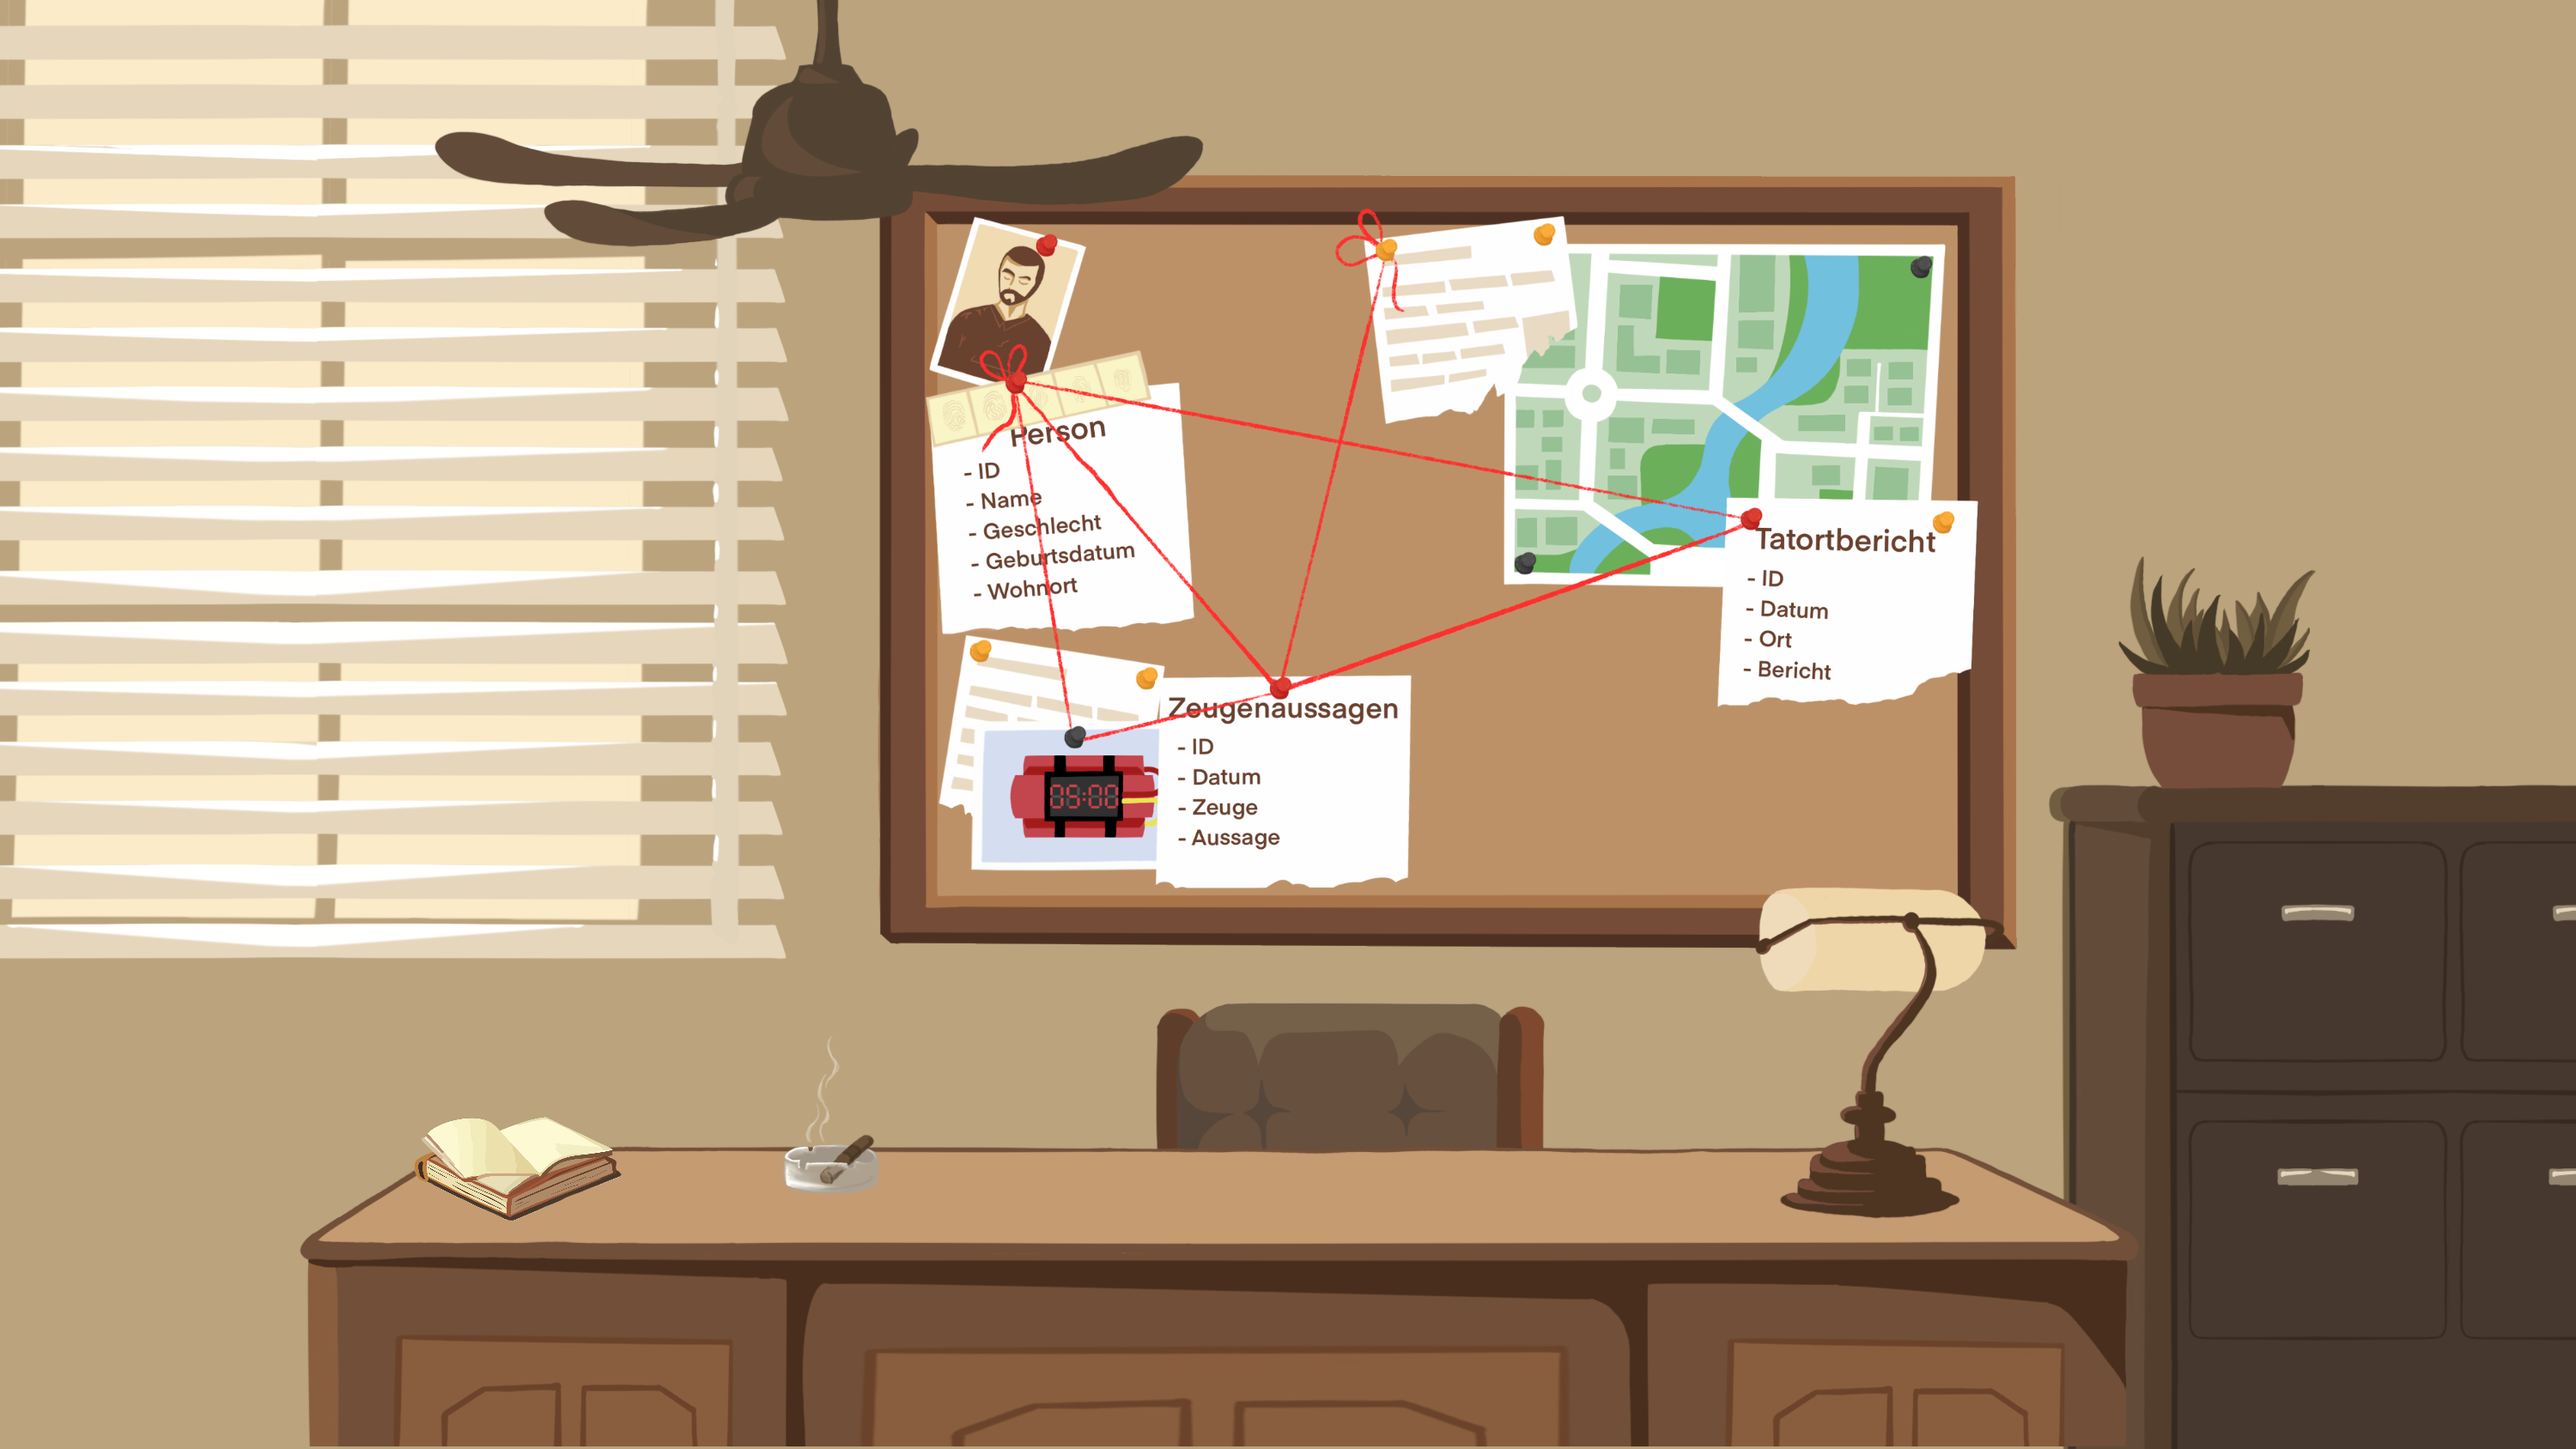
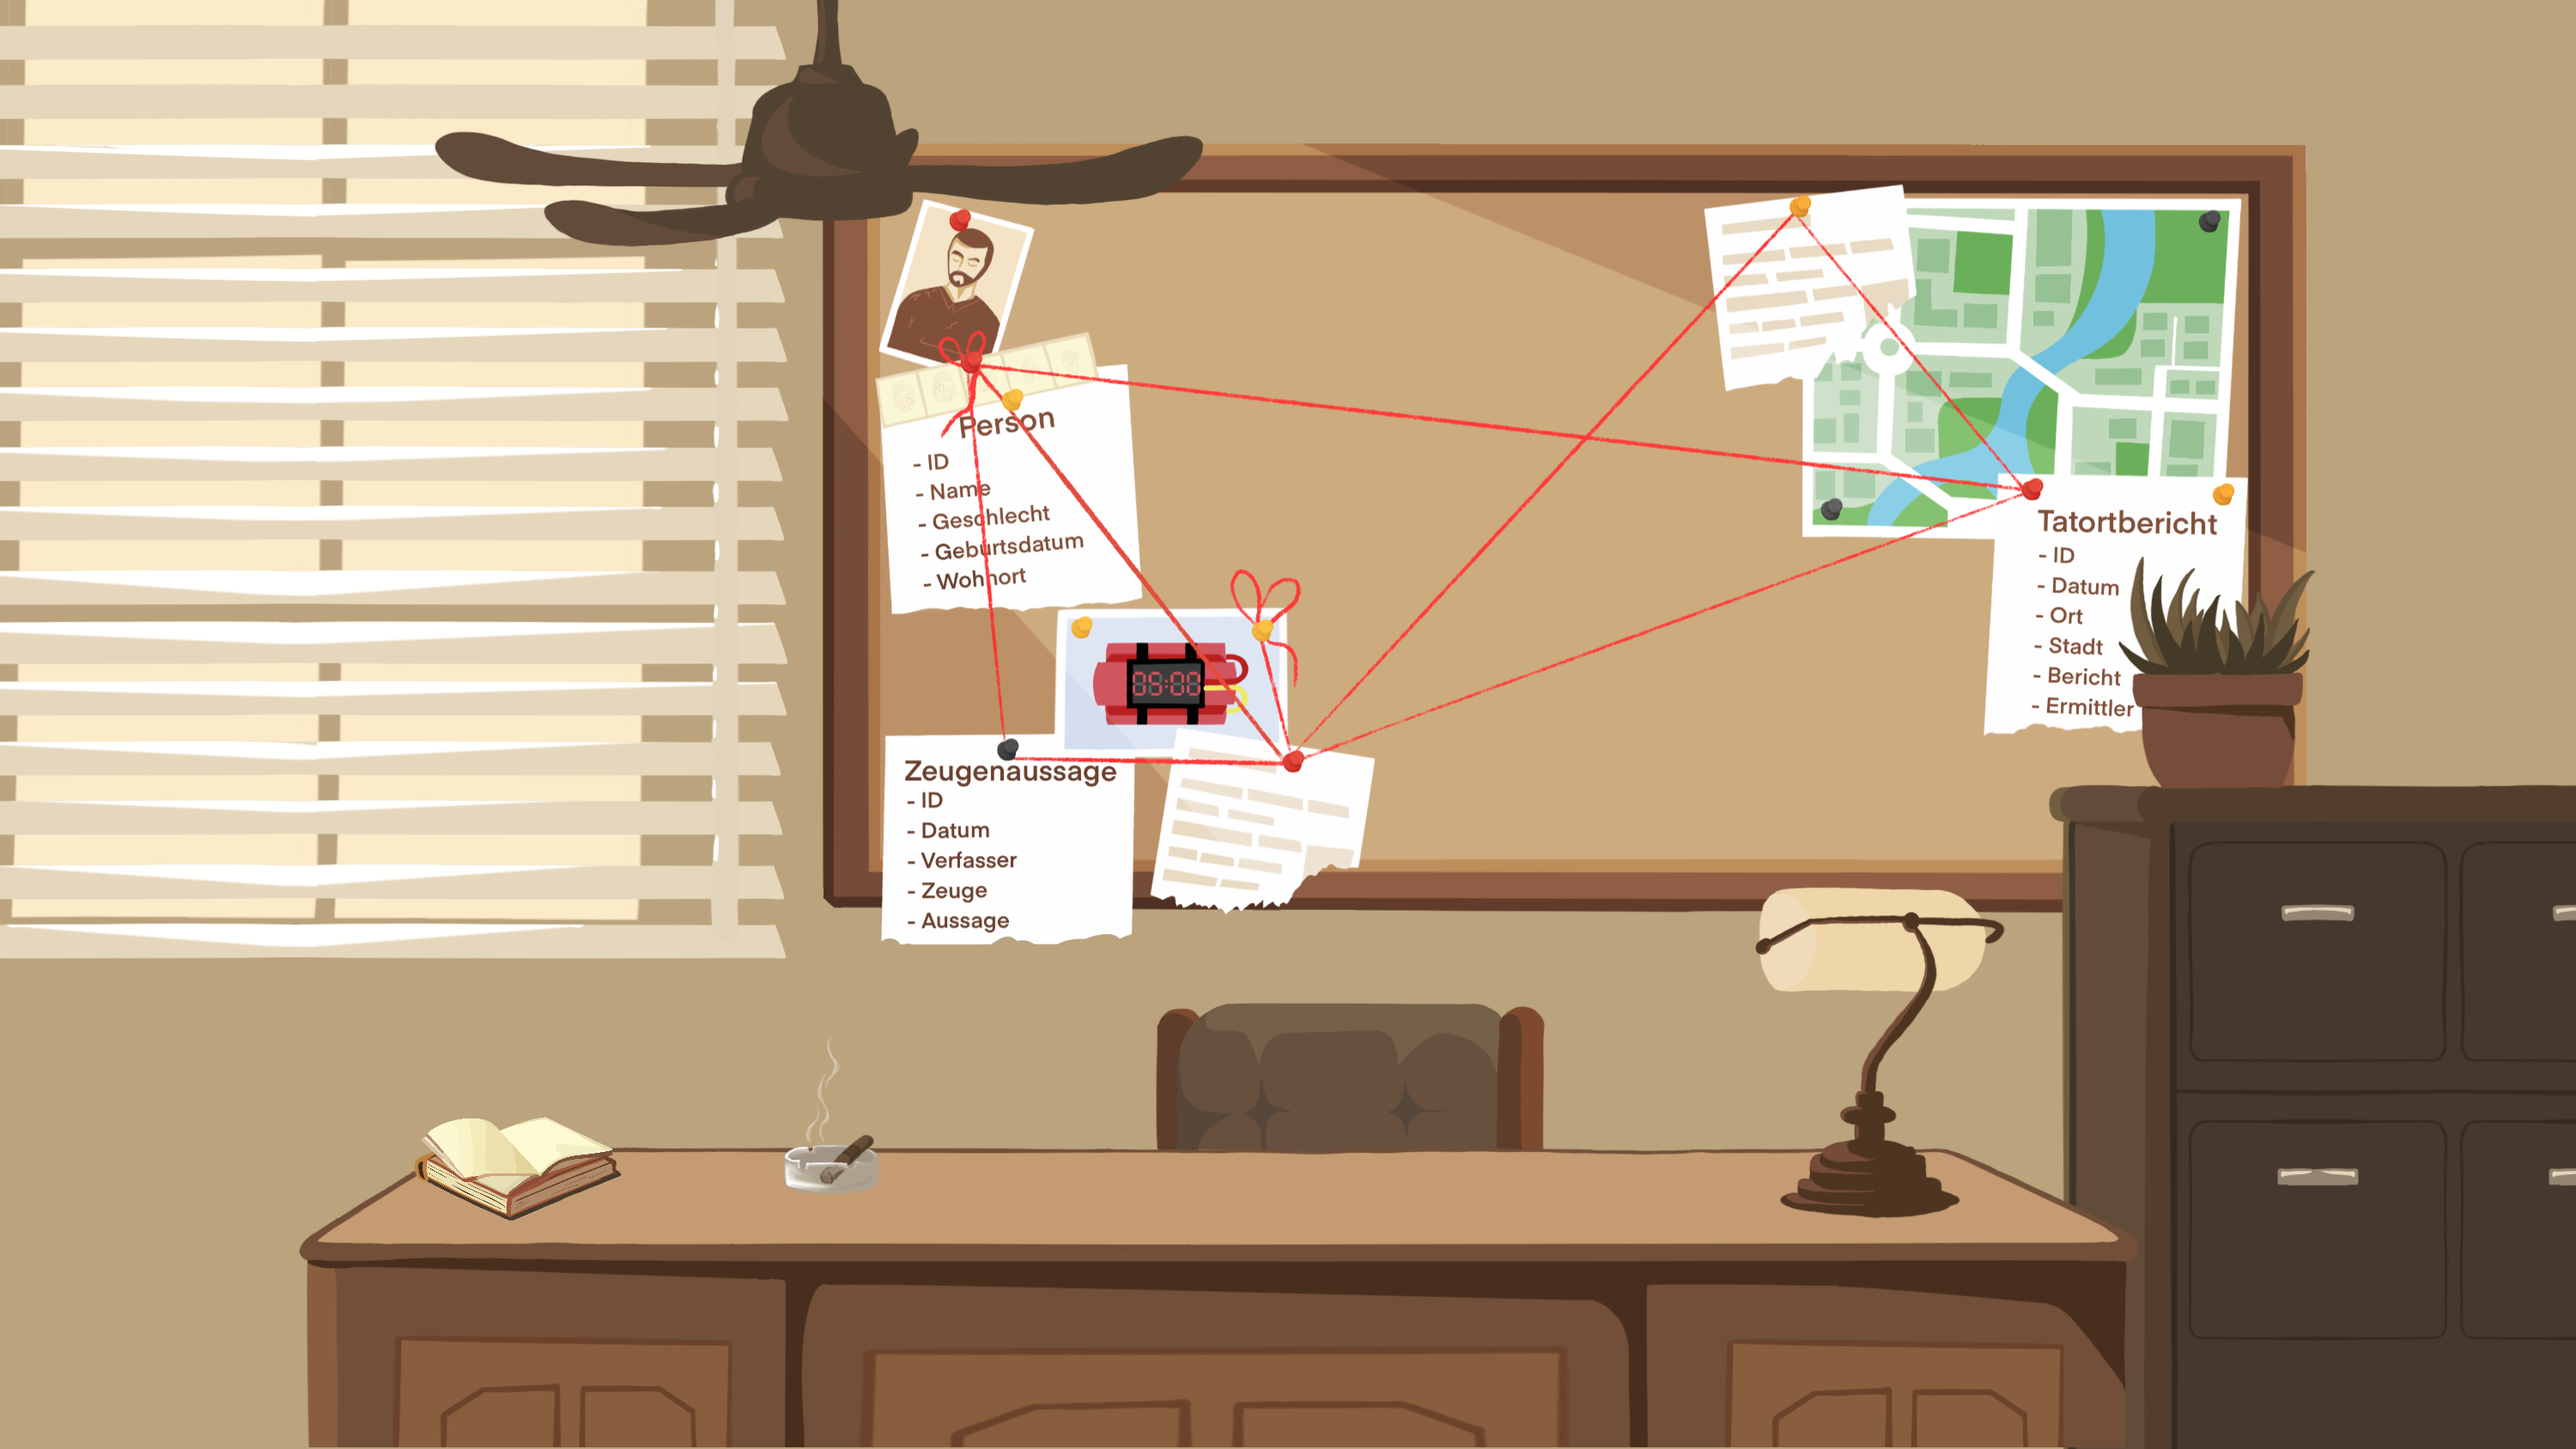
update background images and always dark theme

Changed region(s): [[0.31, 0.0924, 0.899, 0.6777], [0.868, 0.4929, 0.899, 0.5545]]

diff --git a/js/script.js b/js/script.js
@@ -145,6 +145,7 @@ var btnPolice = document.getElementById("btnPolice");
 var btnServer = document.getElementById("btnServer");
 var btnBomb = document.getElementById("btnBomb");
 
+//index 0 = Police 1=Server 2=Map 3=Bomb
 const sqlInputCache = ["","","",""];
 var currentViewIndex = 0;
 
@@ -157,7 +158,7 @@ function saveAndLoadSqlCommand(viewIndex){
 
 btnPolice.addEventListener("click", function(){
     saveAndLoadSqlCommand(0);
-    changeBackgroundImage("./assets/images/background/pinboard2.png");
+    changeBackgroundImage("./assets/images/background/pinboard.png");
     openDatabase('./db/police.sqlite');
 });
 
@@ -170,7 +171,7 @@ btnServer.addEventListener("click", function(){
 
 btnMap.addEventListener("click", function(){
     saveAndLoadSqlCommand(2);
-    changeBackgroundImage("./assets/images/background/cityillustration.png");
+    changeBackgroundImage("./assets/images/background/map.png");
     openDatabase('./db/veranstaltung.sqlite');
 });
 
@@ -235,7 +236,7 @@ btnCommandHistory.addEventListener("click", function() {
 
 
 window.onload = function() {
-    changeBackgroundImage("./assets/images/background/pinboard2.png");
+    changeBackgroundImage("./assets/images/background/pinboard.png");
     openDatabase('./db/police.sqlite');
 };
 

diff --git a/index.html b/index.html
@@ -4,7 +4,7 @@
 <head>
     <meta charset="UTF-8">
     <meta name="viewport" content="width=device-width, initial-scale=1.0">
-    <title>Hintergrundbild Seite</title>
+    <title>SQL Adventure</title>
 
 
     <!--localSylesheet-->

diff --git a/game.html b/game.html
@@ -1,5 +1,5 @@
 <!DOCTYPE html>
-<html>
+<html data-theme="dark">
 
 <head>
     <meta charset="utf8" />
